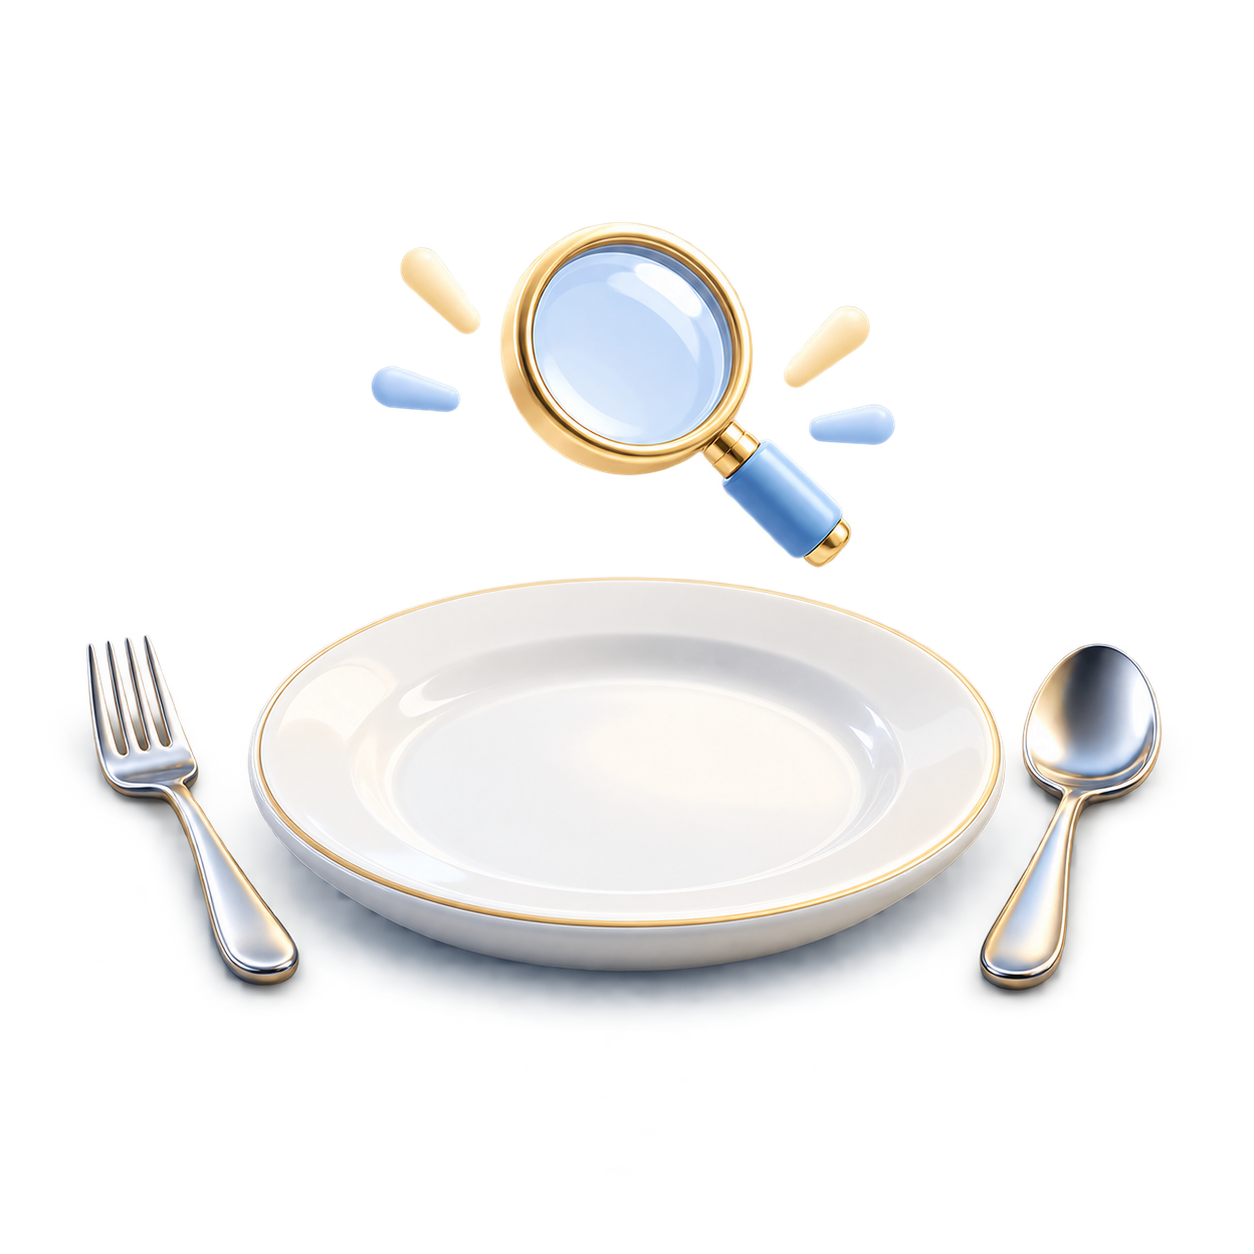
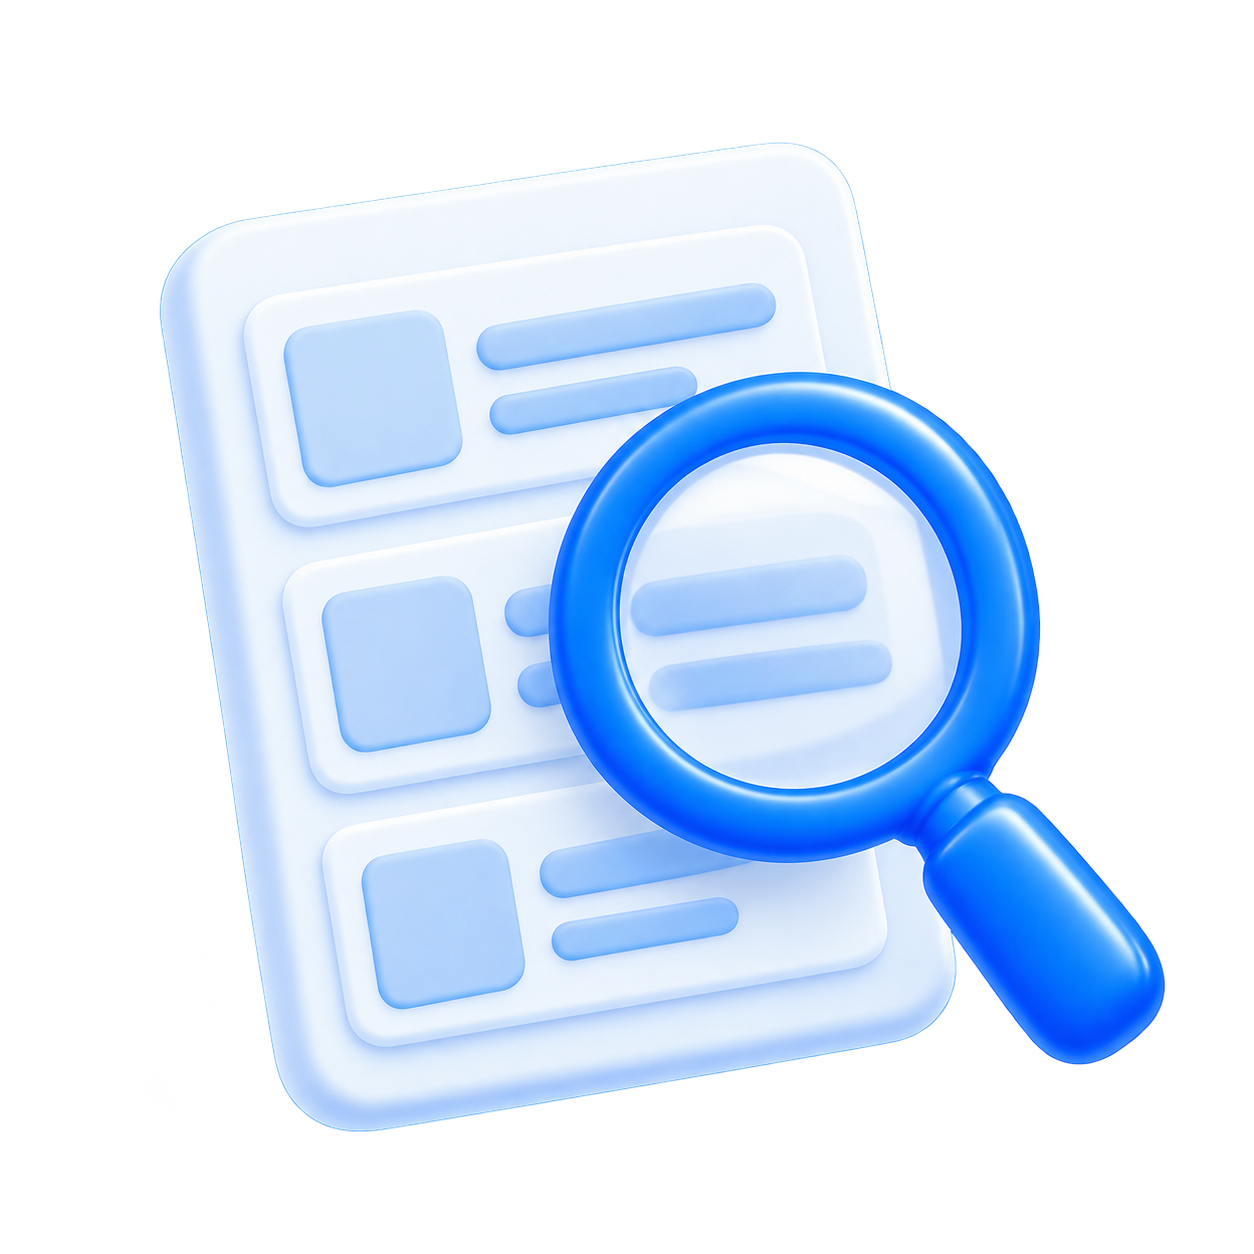
Match empty food state to technical 3D style

diff --git a/mobile/src/food/CatalogScreens.tsx b/mobile/src/food/CatalogScreens.tsx
@@ -230,7 +230,7 @@ export function RestaurantScreen({ restaurant, onBack, onDish, onAdd, onDecrease
             </View> : <SpringPressable accessibilityRole="button" accessibilityLabel={`Добавить ${dish.name} в корзину`} disabled={!dish.available} accessibilityState={{ disabled: !dish.available }} onPress={() => onAdd(dish)} pressScale={.88} containerStyle={s.dishAddTarget} style={[s.dishAdd, !dish.available && { backgroundColor: palette.line }]}><Ionicons name="add" color={dish.available ? c.blue : c.muted} size={24} /></SpringPressable>}
           </View>;
           })}
-          {!dishes.length && <EmptyState dishes title="Блюда не найдены" subtitle={query ? 'Попробуйте изменить поисковый запрос.' : 'В этой категории пока нет блюд. Выберите другую категорию.'} />}
+          {!dishes.length && <EmptyState dishes title="Блюда не найдены" subtitle={query ? 'Измените запрос.' : 'Выберите другую категорию.'} />}
         </Reveal>
       </Reveal>
     </ScrollView>
@@ -350,7 +350,7 @@ const baseStyles = StyleSheet.create({
   discountBadge: { position: 'absolute', left: 8, top: 8, paddingHorizontal: 9, paddingVertical: 6, borderRadius: 10, backgroundColor: palette.coral },
   discountText: { color: c.white, fontFamily: fonts.bold, fontSize: 12, lineHeight: 15 },
   empty: { flex: 1, padding: 28, alignItems: 'center', justifyContent: 'center', gap: 12 },
-  emptyDishesImage: { width: 208, height: 172, marginBottom: 4 },
+  emptyDishesImage: { width: 190, height: 190, marginBottom: 2 },
   emptyTitle: { color: c.ink, fontFamily: fonts.semibold, fontSize: 19, textAlign: 'center' },
   emptySubtitle: { color: c.muted, fontFamily: fonts.regular, fontSize: 15, lineHeight: 22, textAlign: 'center' },
   heroImage: { width: '100%', height: '100%', backgroundColor: '#161916' },
